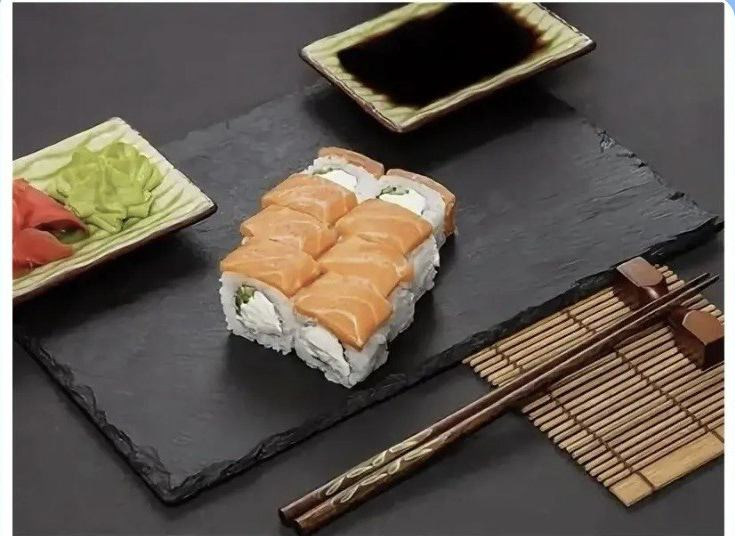
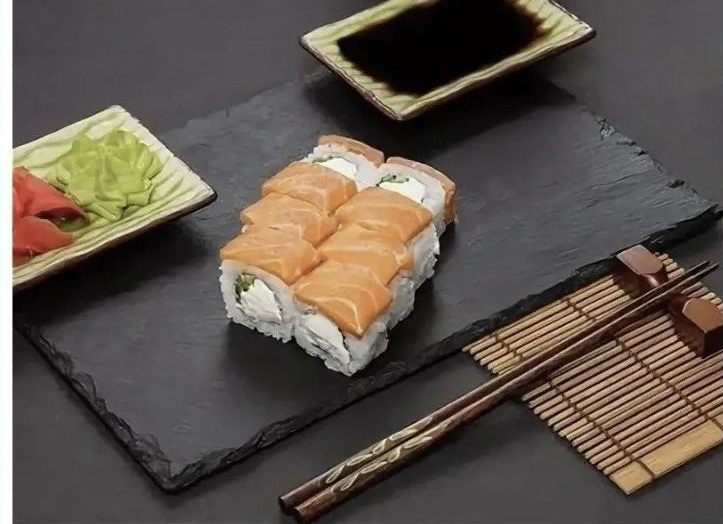
Убрать обрезки/рамки на фото и добавить заказ по звонку
Дообрезал фото блюд, где были видны белые/чёрные полосы и обрывки
цветной рамки скриншота — теперь заполняют карточку целиком.
Добавлена кнопка «Позвонить и заказать» рядом с MAX.

diff --git a/script.js b/script.js
@@ -256,7 +256,7 @@ function validateForm() {
   return true;
 }
 
-document.querySelectorAll(".send-btn").forEach(btn => {
+document.querySelectorAll(".send-btn[data-channel]").forEach(btn => {
   btn.addEventListener("click", () => {
     if (!validateForm()) return;
     const text = buildOrderText();
@@ -267,6 +267,25 @@ document.querySelectorAll(".send-btn").forEach(btn => {
       alert("Не удалось скопировать автоматически. Текст заказа:\n\n" + text);
     });
   });
+});
+
+// ====== ЗАКАЗ ПО ЗВОНКУ ======
+function buildCallSummary() {
+  let text = "Хочу заказать:\n";
+  Object.values(cart).forEach(({ item, qty }) => {
+    text += `• ${item.name} × ${qty} — ${item.price * qty} ₽\n`;
+  });
+  text += `\nИтого: ${cartTotal()} ₽`;
+  return text;
+}
+
+document.getElementById("callOrderBtn").addEventListener("click", (e) => {
+  if (cartCount() === 0) {
+    e.preventDefault();
+    alert("Корзина пуста — добавьте блюда из меню, чтобы продиктовать заказ по телефону");
+    return;
+  }
+  navigator.clipboard.writeText(buildCallSummary()).catch(() => {});
 });
 
 // ====== СТАРТ ======

diff --git a/index.html b/index.html
@@ -102,12 +102,15 @@
         <label class="radio"><input type="radio" name="payment" value="card"> Картой</label>
       </div>
 
-      <div class="order-form__hint">Оплата курьеру / в заведении. Отправьте заказ в MAX:</div>
+      <div class="order-form__hint">Оплата курьеру / в заведении. Отправьте заказ в MAX или позвоните — продиктуем оператору:</div>
 
       <div class="send-buttons">
         <button type="button" class="send-btn send-btn--max" data-channel="max">
           Отправить в MAX
         </button>
+        <a href="tel:+79504858786" class="send-btn send-btn--call" id="callOrderBtn">
+          📞 Позвонить и заказать
+        </a>
       </div>
     </form>
   </div>

diff --git a/style.css b/style.css
@@ -358,10 +358,14 @@ body {
   font-weight: 700;
   font-size: 14px;
   cursor: pointer;
+  text-align: center;
+  text-decoration: none;
+  display: block;
 }
 .send-btn--wa { background: #25D366; }
 .send-btn--tg { background: #29A9EA; }
 .send-btn--max { background: #6C5CE7; }
+.send-btn--call { background: var(--accent); }
 .send-btn:disabled { opacity: 0.5; cursor: not-allowed; }
 
 /* Mobile cart button */
